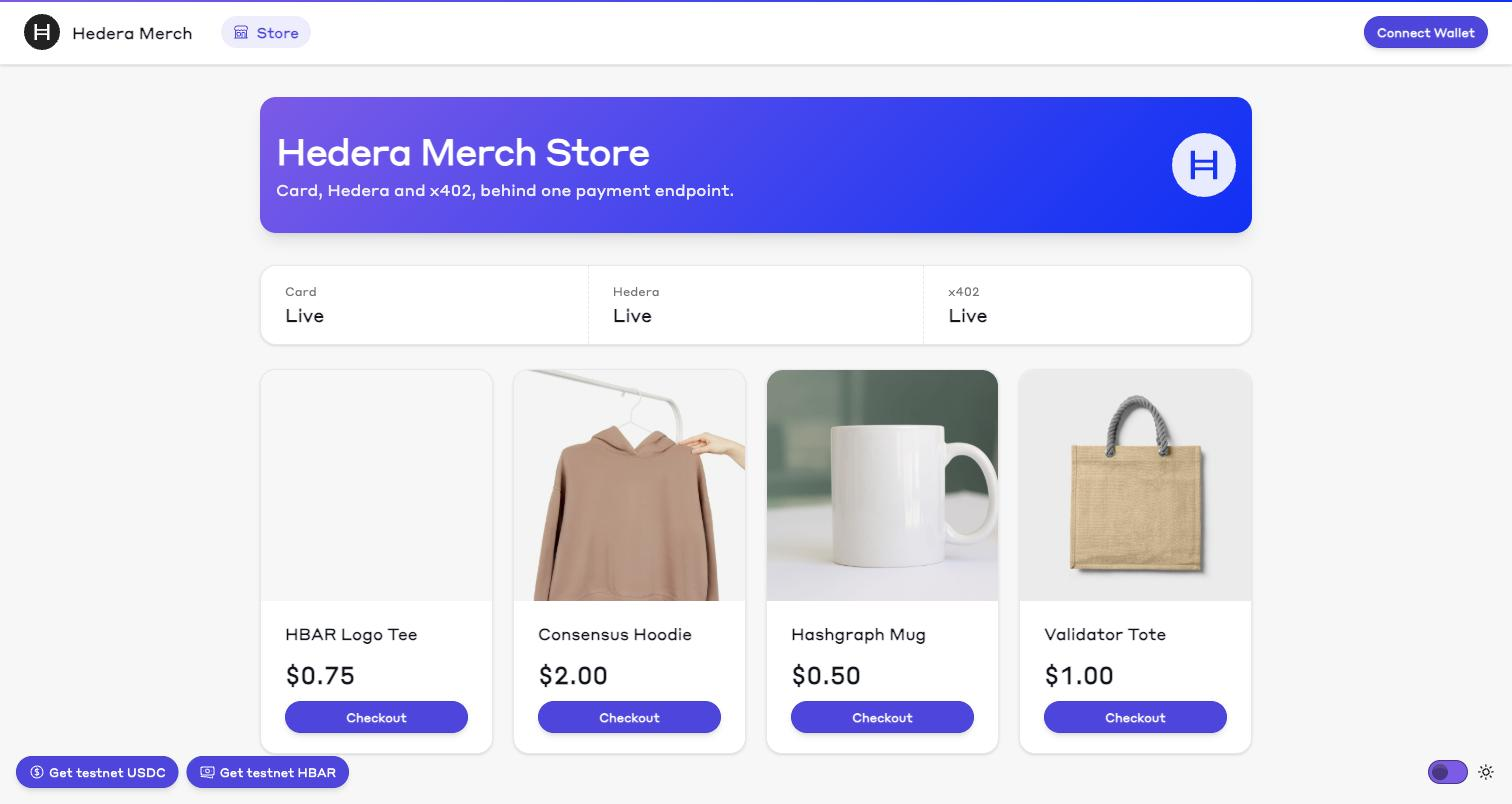
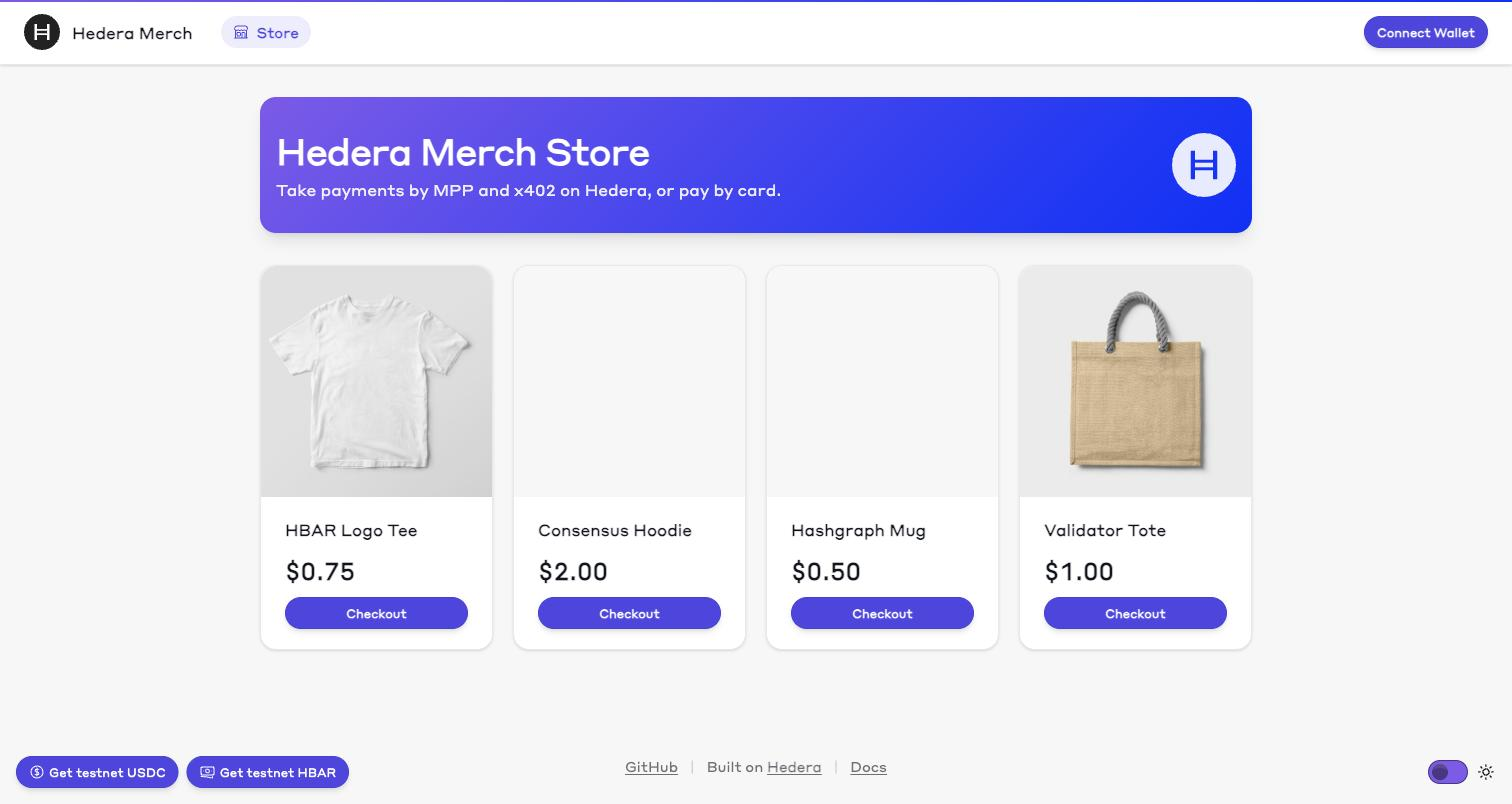
ui: drop the rail status tiles, and say what the store is for
The hero now reads "Take payments by MPP and x402 on Hedera, or pay by card",
which says what the template does rather than listing its parts.

The three Card/Hedera/x402 status tiles are gone from the store page. They
reported configuration state on the page furthest from where you act on it,
and the same state is already on each payment card at checkout — where it is
next to the button it governs and names the variables that switch it on. The
`force-dynamic` export stays, with its comment corrected: it was there for the
tile readout, and the reason to keep it is that a cached store page could sit
in front of a server whose configuration has since changed.

Also corrects the x402 signer hint. It read "Needs a local key", and the
suggested replacement was "x402 facilitator not set up" — which is the
opposite of what it means. The hint only renders when `enabled &&
!burnerAvailable`, and `enabled` *is* `hasX402()`, so the facilitator is
configured by definition; an unconfigured one shows the rail as `demo mode`
and names AX402_FACILITATOR_URL instead. It now says "Needs a signing key in
this browser", with a comment recording why, and that nothing else is
required: the facilitator sponsors the fees itself via the feePayer in the
offer, and /api/testnet/fund tops the buyer up during the payment.

README captions updated — they still described the tiles — and both
screenshots re-taken.

diff --git a/packages/nextjs/app/page.tsx b/packages/nextjs/app/page.tsx
@@ -1,19 +1,13 @@
 import Image from "next/image";
 import { ProductCard } from "~~/components/ProductCard";
-import { hasHedera, hasStripe, hasX402 } from "~~/lib/demo";
 import { products } from "~~/lib/products";
 
-// Rail status is read from the running process's environment, so a developer who adds
-// keys and restarts sees the change without a rebuild.
+// The catalogue is a fixture, but keep this dynamic: `/checkout` reads rail credentials from
+// the running process, and a statically cached store page would let a stale build sit in
+// front of a server whose configuration has since changed.
 export const dynamic = "force-dynamic";
 
 export default function StorePage() {
-  const rails = [
-    { label: "Card", enabled: hasStripe() },
-    { label: "Hedera", enabled: hasHedera() },
-    { label: "x402", enabled: hasX402() },
-  ];
-
   return (
     <div className="flex flex-col grow">
       <div className="w-full max-w-5xl mx-auto px-4 py-6 sm:py-8">
@@ -21,7 +15,9 @@ export default function StorePage() {
           <div className="hero-content w-full flex-col md:flex-row items-start md:items-center justify-between gap-4 py-7 sm:py-8">
             <div>
               <h1 className="text-3xl sm:text-4xl font-bold tracking-tight m-0">Hedera Merch Store</h1>
-              <p className="text-white/90 mt-2 mb-0 max-w-2xl">Card, Hedera and x402, behind one payment endpoint.</p>
+              <p className="text-white/90 mt-2 mb-0 max-w-2xl">
+                Take payments by MPP and x402 on Hedera, or pay by card.
+              </p>
             </div>
             <Image
               src="/Hedera-Icon-White.svg"
@@ -32,15 +28,6 @@ export default function StorePage() {
             />
           </div>
         </header>
-
-        <div className="stats stats-vertical sm:stats-horizontal w-full shadow-sm border border-base-300 bg-base-100 mb-6">
-          {rails.map(({ label, enabled }) => (
-            <div className="stat" key={label}>
-              <div className="stat-title">{label}</div>
-              <div className="stat-value text-base sm:text-lg">{enabled ? "Live" : "Demo mode"}</div>
-            </div>
-          ))}
-        </div>
 
         <section aria-label="Products" className="grid gap-5 grid-cols-1 sm:grid-cols-2 lg:grid-cols-4">
           {products.map((product, index) => (

diff --git a/packages/nextjs/components/X402PayButton.tsx b/packages/nextjs/components/X402PayButton.tsx
@@ -75,9 +75,15 @@ export const X402PayButton = ({ productId, priceUsd, enabled }: X402PayButtonPro
         Pay {priceUsd} USDC via x402
       </button>
 
+      {/* Only rendered when the facilitator IS configured — `enabled` is `hasX402()`. An
+          unconfigured facilitator shows the rail as `demo mode` instead, so this is never
+          about the facilitator: it is the buyer having no signer in this browser. Nothing
+          else is needed either; the facilitator sponsors the fees and `/api/testnet/fund`
+          tops the buyer up during the payment. */}
       {enabled && !burnerAvailable && (
         <p className="text-xs text-base-content/60 m-0">
-          Needs a local key — run <code className="bg-base-300 px-1 py-0.5 rounded text-[11px]">yarn make:burner</code>.
+          Needs a signing key in this browser — run{" "}
+          <code className="bg-base-300 px-1 py-0.5 rounded text-[11px]">yarn make:burner</code>.
         </p>
       )}
 

diff --git a/README.md b/README.md
@@ -32,15 +32,15 @@ It boots with **no `.env` file and no environment variables at all**. Each rail 
 itself on independently once its own variables are present, so a developer holding only
 Stripe keys gets a live card path and honest demo stubs everywhere else.
 
-![The storefront: four products, and a status tile per rail](docs/images/store.jpg)
+![The storefront: four products priced in cents](docs/images/store.jpg)
 
-Every rail reads its own credentials, so each tile above flips independently. Checkout shows
-the same three side by side, all answering the one `402`:
+Checkout offers all three rails against the one order, each reading its own credentials and
+each answering the same `402`:
 
 ![Checkout: Card, Hedera and x402 offered against the same $2.00 order](docs/images/checkout.jpg)
 
-Both screenshots are the template with all three rails configured. Out of the box every tile
-reads `Demo mode` instead, and the store still runs.
+That screenshot is the template with all three rails configured. Out of the box each card
+reads `demo mode` and names the variables that switch it on, and the store still runs.
 
 ## Create a project
 
